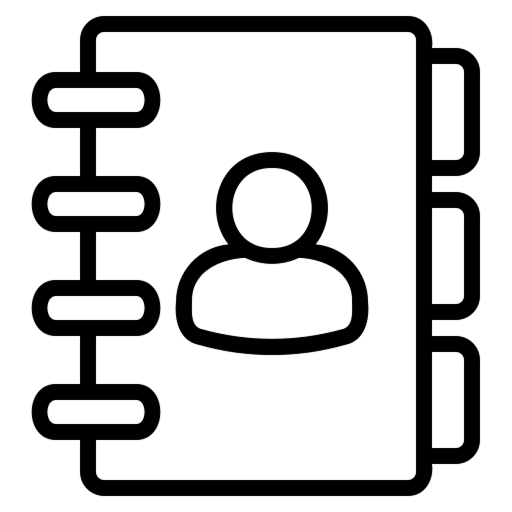
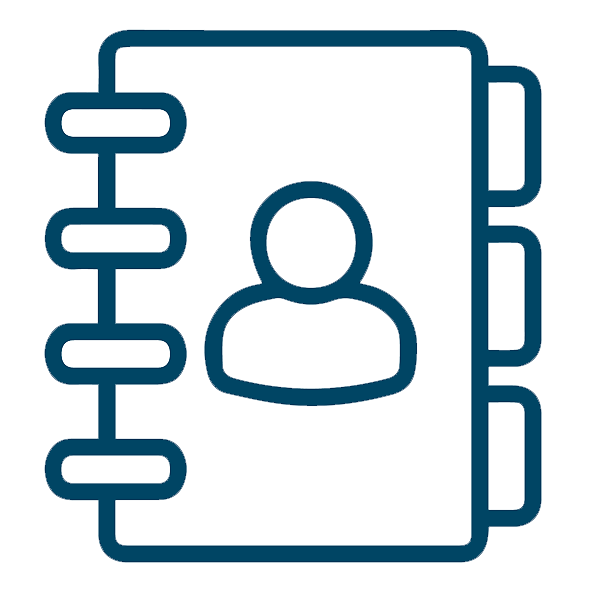
Se modifico el menu principal

Changed region(s): [[0.0625, 0.0312, 0.9375, 0.9688]]

diff --git a/src/app/components/Navbar.js b/src/app/components/Navbar.js
@@ -20,11 +20,11 @@ export default function Navbar() {
   }, [isMenuOpen]);
 
   const navItems = [
-    { href: '/', label: 'Inicio', img: '/images/Menu/azul/home.png' },
-    { href: '/noticias', label: 'Noticias', img: '/images/Menu/azul/noticias.png' },
-    { href: '/quienessomos', label: 'Quiénes Somos', img: '/images/Menu/azul/quienessomos.png' },
-    { href: '/contacto', label: 'Contacto', img: '/images/Menu/azul/contacto.png' },
-    { href: '/usuario', label: 'Usuario', img: '/images/Menu/azul/usuario.png' },
+    { href: '/', label: 'Inicio', img: '/images/Menu/home.png' },
+    { href: '/noticias', label: 'Noticias', img: '/images/Menu/noticias.png' },
+    { href: '/quienessomos', label: 'Quiénes Somos', img: '/images/Menu/quienessomos.png' },
+    { href: '/contacto', label: 'Contacto', img: '/images/Menu/contacto.png' },
+    { href: '/usuario', label: 'Usuario', img: '/images/Menu/usuario.png' },
   ];
 
   return (
